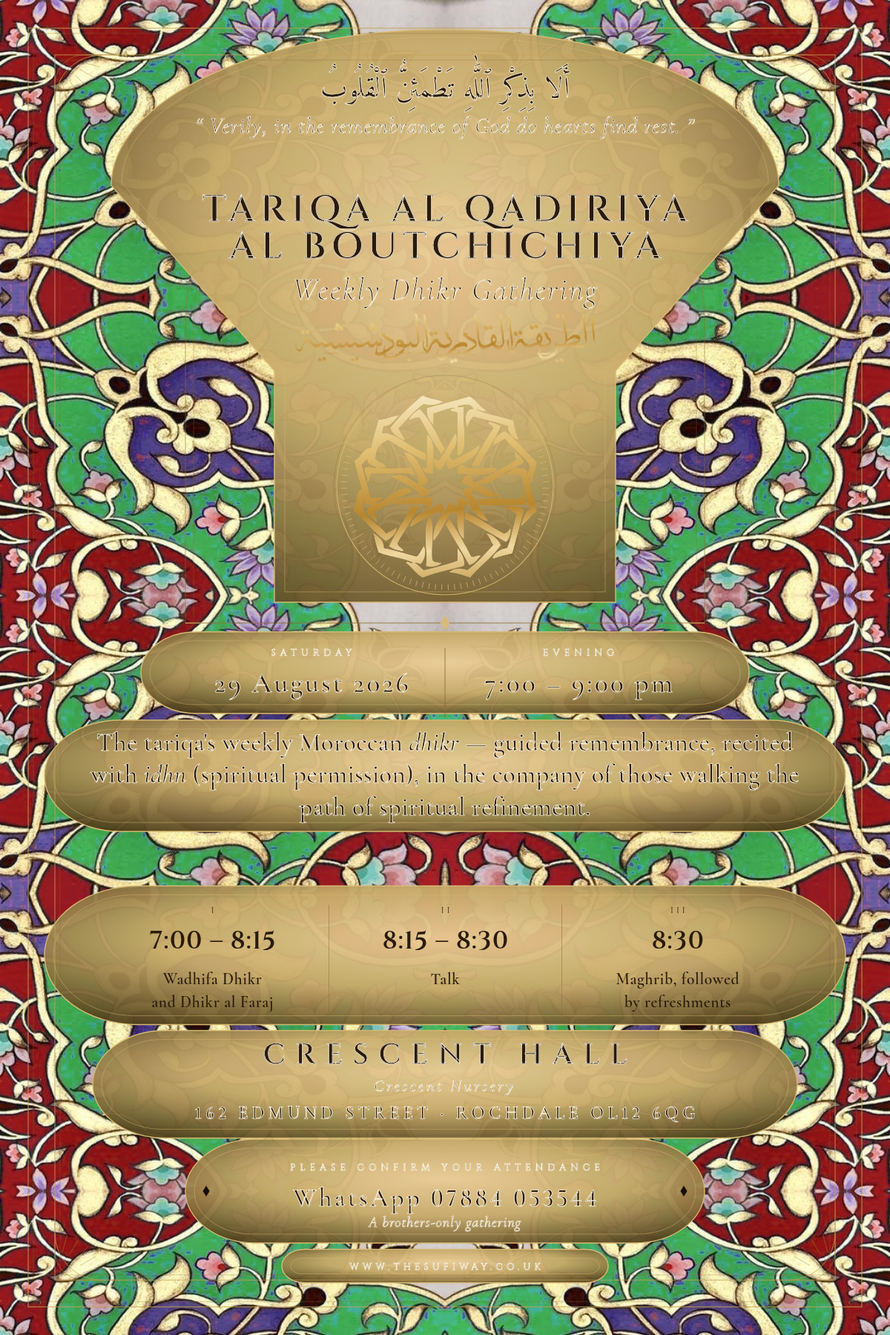
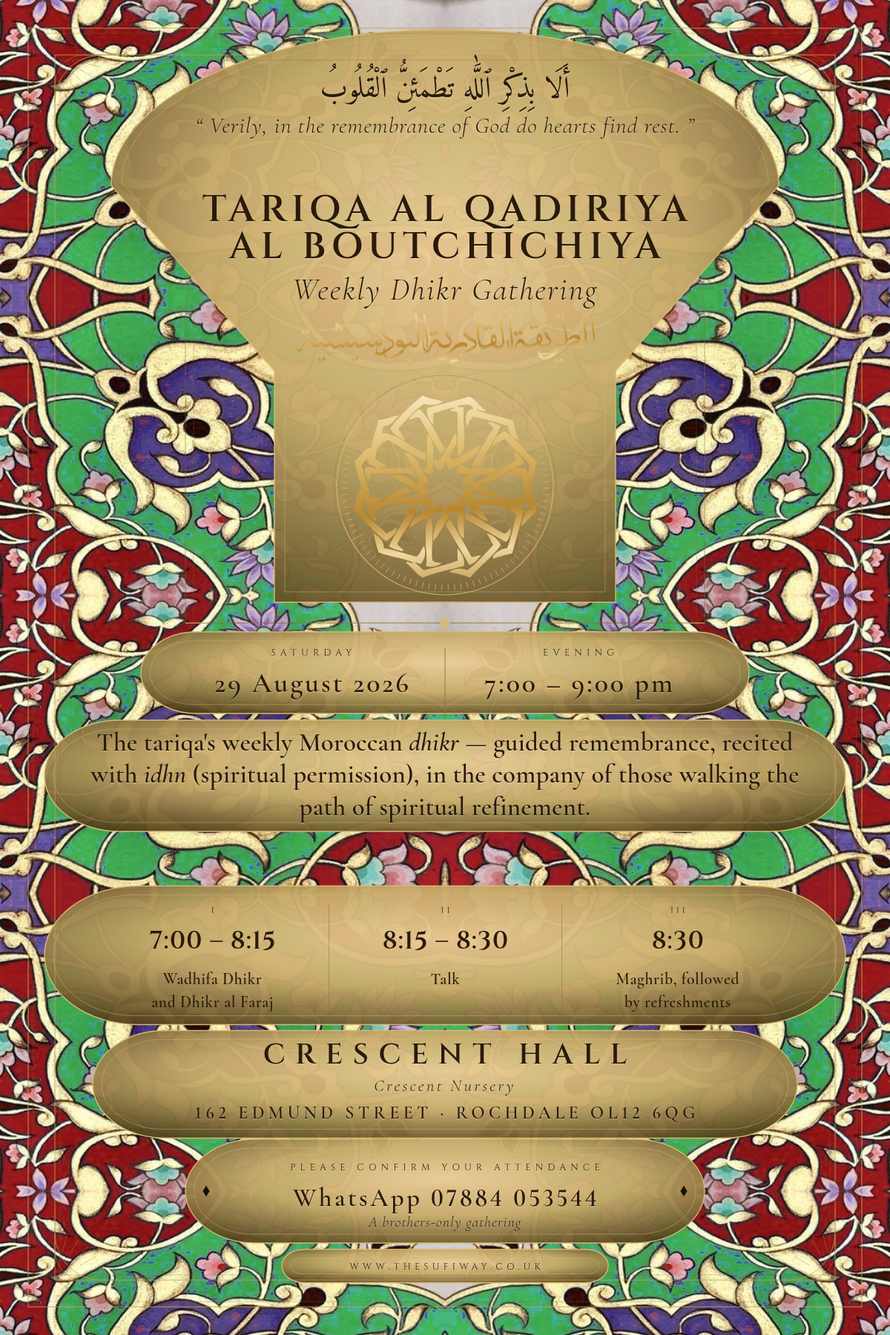
Add Dhikr Qasaaid flyer (new event, same illuminated design system)
New event, different from the weekly gathering: "Dhikr Qasaaid" featuring
Ensemble Safaa UK, 13 November 2026. Content pulled from a reference
flyer supplied as an image, keeping only the ayah + translation and
swapping the date, per request.

page_qasaaid() reuses the shared css()/frame_svg()/tiles_svg() and all
four ILLUMINATED_* palettes unchanged — same photographed background,
same arch/cartouche panel system, same four colourways — with its own
hero_qasaaid()/bottom_qasaaid() content and its own cartouche_zones (on
a local palette copy, so the weekly-gathering zones are untouched).

Also fixes a real bug in Illuminated Gold: outline_stroke was tuned
against the bold 50px title, where a 0.7px stroke is proportionally
thin; against thinner italic text at smaller sizes it visually
overwhelmed the dark fill entirely, rendering as pale outlines instead
of dark ink. Gold's outline_stroke is now "0 transparent" — a dark panel
and dark ink don't need one — which also fixes final-illuminated-gold.png
itself, not just the new flyer.

Claude-Session: https://claude.ai/code/session_01W3RXmfEcLks2fUKiCDKANu

diff --git a/design/weekly-gathering/final/final.py b/design/weekly-gathering/final/final.py
@@ -589,7 +589,11 @@ ILLUMINATED_GOLD.update(
     cartouche_opacity=0.95,
     # a light panel needs dark ink instead of white — same swap final-sandstone
     # made, just localised to this one colourway rather than the whole page.
-    outline_stroke="0.7px #FFF6E2",
+    # No outline at all: dark ink on a light gold panel already has plenty of
+    # contrast on its own, and a stroke tuned against the bold 50px title
+    # overwhelmed thinner italic text (gloss/t2/note) at smaller sizes —
+    # the stroke colour visually dominated the thin dark fill entirely.
+    outline_stroke="0 transparent",
     gold_grad="linear-gradient(178deg,#2A1B0A 0%,#2A1B0A 100%)",
     ayah="#2A1B0A", gloss="#2A1B0A", t2="#2A1B0A", lab="#2A1B0A", val="#2A1B0A",
     body="#2A1B0A", pt="#2A1B0A", pd="#2A1B0A", rn="#2A1B0A", vsub="#2A1B0A",
@@ -597,6 +601,95 @@ ILLUMINATED_GOLD.update(
     text_shadow="0 1px 2px rgba(255,255,255,.35)",
     gold_shadow="drop-shadow(0 1px 1px rgba(255,255,255,.25))",
 )
+
+# ---------- Dhikr Qasaaid — a different event, same illuminated design system ----------
+# The ayah + translation at the very top, and the whole visual system (photo
+# background, the mihrab/cartouche panels, the four colourways) carry over
+# unchanged from the weekly-gathering leaflet. Everything else is this
+# event's own copy, pulled from a reference flyer supplied as an image.
+QASAAID_LABEL  = "TARIQA QADIRIYYA BOUTCHICHIYYA"
+QASAAID_QUOTE  = "“The two royal gates to access GOD’s mercy are invocation (dhikr) and generosity.”"
+QASAAID_ATTRIB = "SIDI HAMZA AL-QADIRI AL-BOUTCHICHI"
+QASAAID_ARCH_BASE = 830
+
+def _caps(text, top, pal, size=16, weight=600, ls=".12em", color_key='lab', extra=''):
+    return (f'<div class="at" style="top:{top}px;font-family:Cinzel,serif;font-weight:{weight};'
+            f'font-size:{size}px;letter-spacing:{ls};text-indent:{ls};color:{pal[color_key]};{extra}">{text}</div>')
+
+def hero_qasaaid(pal):
+    MED_CY, R, SEAL_D = 664, 126, 214
+    extra_body = f'<g class="med">{v.halo(CX, MED_CY, R)}</g>'
+    gold_cls = pal.get('title_cls', 'gold')
+    hero = f'''
+{ayah_block(90, 150)}
+{_caps(QASAAID_LABEL, 212, pal, size=13, weight=400, ls=".4em")}
+<div class="at t1 {gold_cls}" style="top:250px">DHIKR</div>
+<div class="at t1 {gold_cls}" style="top:318px">QASAAID</div>
+<div class="at t2" style="top:390px;font-size:26px;left:{CX-380}px;width:760px;right:auto">Remembrance, sacred praise and spiritual companionship</div>
+{wordmark(456, 56)}
+<div class="mark seal" style="top:{MED_CY-SEAL_D//2}px;width:{SEAL_D}px;height:{SEAL_D}px;
+  -webkit-mask-image:url({v.STAR_URI});mask-image:url({v.STAR_URI})"></div>
+'''
+    return hero, extra_body
+
+def bottom_qasaaid(pal):
+    return f'''
+<div class="at" style="top:862px;left:{CX-440}px;width:880px;font-family:Cormorant,serif;
+  font-style:italic;font-weight:{pal.get('body_weight',400)};font-size:23px;line-height:1.35;color:{pal['body']}">
+{QASAAID_QUOTE}
+</div>
+{_caps(QASAAID_ATTRIB, 930, pal, size=13, weight=600, ls=".18em")}
+
+{_caps("BENEFITS OF THE DHIKR", 988, pal, size=15, weight=600, ls=".24em")}
+{_caps("PEACE OF HEART &#10052; CLARITY OF MIND &#10052; NEARNESS TO GOD &#10052; BROTHERHOOD", 1032, pal, size=15.5, weight=600, ls=".05em", color_key='pd')}
+
+<div class="cols" style="top:1200px">
+  <div>{_caps("DATE", 0, pal, size=11, weight=400, ls=".3em", extra="position:static")}
+       <div class="pt" style="margin-top:9px">13 NOV 2026</div>
+       <div class="pd" style="margin-top:11px">Friday<br>6:30&nbsp;&ndash;&nbsp;9:00&nbsp;pm</div></div>
+  <div>{_caps("VENUE", 0, pal, size=11, weight=400, ls=".3em", extra="position:static")}
+       <div class="pt" style="margin-top:9px;font-size:26px">CRESCENT HALL</div>
+       <div class="pd" style="margin-top:11px">162 Edmund Street<br>Rochdale OL12 6QG</div></div>
+  <div>{_caps("GATHERING", 0, pal, size=11, weight=400, ls=".3em", extra="position:static")}
+       <div class="pt" style="margin-top:9px;font-size:26px">BROTHERS</div>
+       <div class="pd" style="margin-top:11px">Everyone welcome —<br>first time or returning</div></div>
+</div>
+
+{_caps("FEATURING", 1395, pal, size=13, weight=400, ls=".4em")}
+<div class="at venue" style="top:1418px;font-size:32px;color:{pal['pt']}">ENSEMBLE SAFAA UK</div>
+{_caps("SPECIAL CHORAL DHIKR &amp; QASAAID", 1470, pal, size=13, weight=600, ls=".14em")}
+
+{_caps("DHIKR &#10052; QASAAID &#10052; SUFI TALK &#10052; QUESTIONS &amp; ANSWERS", 1535, pal, size=16, weight=600, ls=".04em", color_key='pt')}
+{_caps("FOOD WILL BE SERVED &#10052; REFRESHMENTS THROUGHOUT", 1580, pal, size=14, weight=400, ls=".08em", color_key='note')}
+
+<div class="at wa" style="top:1668px;font-size:24px">www.thesufiway.co.uk &nbsp;&middot;&nbsp; 07740 757135</div>
+<div class="at note" style="top:1704px">for further info, phone or WhatsApp</div>
+'''
+
+def page_qasaaid(pal, out_name, scale=1):
+    pal = dict(pal)
+    pal['cartouche_zones'] = [
+        dict(shape="arch", base_y=QASAAID_ARCH_BASE),
+        dict(shape="bar", cx=CX, cy=905, w=940, h=124),
+        dict(shape="bar", cx=CX, cy=1052, w=1080, h=140),
+        dict(shape="bar", cx=CX, cy=1285, w=1080, h=190),
+        dict(shape="bar", cx=CX, cy=1448, w=880, h=130),
+        dict(shape="bar", cx=CX, cy=1588, w=1080, h=126),
+        dict(shape="bar", cx=CX, cy=1700, w=760, h=90),
+    ]
+    hero, hero_extra = hero_qasaaid(pal)
+    html = f'''<!doctype html>
+<html lang="en"><head><meta charset="utf-8"><title>Dhikr Qasaaid</title>
+<style>{css(pal)}</style></head>
+<body><div class="page">
+{tiles_svg(pal)}
+{frame_svg(pal, hero_extra)}
+{hero}
+{bottom_qasaaid(pal)}
+</div></body></html>'''
+    hp = HERE / f"{out_name}.html"
+    hp.write_text(html, encoding="utf-8")
+    shot(hp, HERE / f"{out_name}.png", scale=scale)
 
 if __name__ == "__main__":
     render(DEFAULT_PALETTE, "final-gold")

diff --git a/design/weekly-gathering/final/README.md b/design/weekly-gathering/final/README.md
@@ -26,6 +26,7 @@ colourway, `bottom_html()` in `final.py`.
 | `banner-<colour>.png` | The banner (1600×900, `banner.py`), redone as a crest — star, wordmark, name and venue only, no date/time/WhatsApp — against a much denser Islamic geometric ground (a large faint rosette behind the star, a tiled dado border). Rendered in all six palettes: gold, emerald, burgundy, indigo, blackgold, earthy. |
 | `banner-blackgold.png` | The fully customised banner (full address, solid minarets, crescent moon, no "brothers-only" line), on the **Earthy Gold** ground — same warm terracotta-clay gradient as `final-earthy.png` — with the mihrab arch filled as a genuinely solid niche (not a soft vignette): `arch_panel_d()` closes the same curve straight down near the bottom frame, filled ~0.94 opacity, with a faint clipped zellij texture and an inset moulding line inside it. |
 | `banner-ivory.png` / `banner-blush.png` / `banner-sage.png` / `banner-powder.png` | Four **light** grounds — ivory, blush, sage, powder blue — built the same way as Earthy Gold: only the outer background and the ornament that has to read against it (frame hairlines, pattern, minaret fill — dropped to a deeper antique bronze, `_DEEP_GOLD`) change. The niche itself stays exactly black-and-gold; every reading token inside it is untouched. |
+| `qasaaid-red.png` / `-green.png` / `-gold.png` / `-purple.png` | **A different event**, same illuminated design system: "Dhikr Qasaaid" featuring Ensemble Safaa UK, 13 November 2026 — text pulled from a reference flyer supplied as an image, everything else (the ayah + translation, the photographed background, the arch/cartouche panels, all four colourways) carried straight over. `page_qasaaid()` in `final.py`, its own hero/bottom content but the same shared `css()`/`frame_svg()`/`tiles_svg()`. |
 | `banner-invert-ivory.png` / `banner-invert-blush.png` / `banner-invert-sage.png` / `banner-invert-powder.png` | The **reverse** of the four above: outer frame, minarets, moon and pattern stay dark (true Black & Gold), and it's the niche panel itself that takes the pastel fill this time. The star sits on its own small dark disc (`STAR_DISC`) behind the halo ring, so it still reads as a gold mark on black even with a light panel around it; the title, wordmark, venue, address and note all switch to a deep-gold/espresso ink (`NICHE_*` tokens, `page(..., invert=True, niche_fill=...)`) tuned for the pale ground instead of the dark one. |
 
 Indigo is the one structural departure: every gold token (hairlines, the
@@ -175,12 +176,59 @@ dull" and "make the writing easier to read":
   browser's synthetic bold, so the letterforms stay properly drawn at
   weight.
 
+## Dhikr Qasaaid — a different event, on the same design system
+
+`qasaaid-red.png` / `-green.png` / `-gold.png` / `-purple.png` are a
+one-off event flyer ("Dhikr Qasaaid", featuring Ensemble Safaa UK, 13
+November 2026), not the weekly gathering. Its content was pulled from a
+reference flyer supplied as an image, with two exceptions kept from the
+existing design: the ayah + its translation at the very top, and the date
+(the reference's own example date wasn't reused — 13 Nov 2026 was, and it
+happens to fall on a Friday same as the reference's example).
+
+Nothing about the shared machinery changed — `page_qasaaid()` calls the
+same `css()`, `frame_svg()`, `tiles_svg()`, and the same four `ILLUMINATED_*`
+palettes, so it's the identical photographed background, arch/cartouche
+panel system and colourways as the weekly-gathering leaflet. Only the
+content is different, in two new functions:
+
+- **`hero_qasaaid(pal)`** — the ayah/translation (unchanged, via the same
+  `ayah_block()`), a new small tracked-caps label ("TARIQA QADIRIYYA
+  BOUTCHICHIYYA" — note this is transcribed straight from the reference
+  flyer, a different transliteration than the rest of this project's own
+  "AL QADIRIYA AL BOUTCHICHIYA"), the event title ("DHIKR"/"QASAAID") in
+  place of the tariqa's name, a shorter subtitle, then the same wordmark
+  and star medallion, slightly smaller to leave room for the extra label.
+- **`bottom_qasaaid(pal)`** — the quote and its attribution, the benefits
+  list, a date/venue/gathering-type row (reusing the exact same `.cols`/
+  `.rn`/`.pt`/`.pd` three-column mechanism the weekly gathering uses for
+  its programme times), the "Featuring Ensemble Safaa UK" line, the
+  programme/food line, and a footer with the phone number from the
+  reference flyer (a different number than the weekly gathering's own
+  WhatsApp line — also pulled straight from the reference, not assumed).
+- `page_qasaaid()` supplies its own `cartouche_zones` (on a local copy of
+  the palette, so it doesn't touch the weekly-gathering zones) — seven
+  panels instead of six, sized for this event's own content rather than
+  reusing the weekly gathering's positions unchanged.
+
+Building this surfaced a real bug in the gold colourway that had been
+sitting there since Illuminated Gold was first added: `outline_stroke`
+(the thin stroke drawn round every letterform) was tuned against the bold
+50px title, where a 0.7px stroke is proportionally thin. Against thinner
+italic text at smaller sizes (the ayah's translation, the subtitle, body
+copy) the same stroke width visually overwhelmed the thin dark fill
+entirely — the letters rendered as pale outlines rather than dark ink.
+Gold's `outline_stroke` is now `"0 transparent"` (no stroke at all): a dark
+panel and dark ink already have plenty of contrast without one, so this
+also cleaned up `final-illuminated-gold.png` itself, not just the new page.
+
 ## Regenerating
 
 ```bash
 python3 final.py
 ```
 
-Renders all eight. To add a colourway, copy one of the palette dicts near
-the bottom of the file, override the tokens that should change, and add a
-`render(...)` call.
+Renders all eight, plus the four Dhikr Qasaaid colourways. To add a
+colourway, copy one of the palette dicts near the bottom of the file,
+override the tokens that should change, and add a `render(...)` call
+(or `page_qasaaid(pal, "out-name")` for the Qasaaid flyer).
